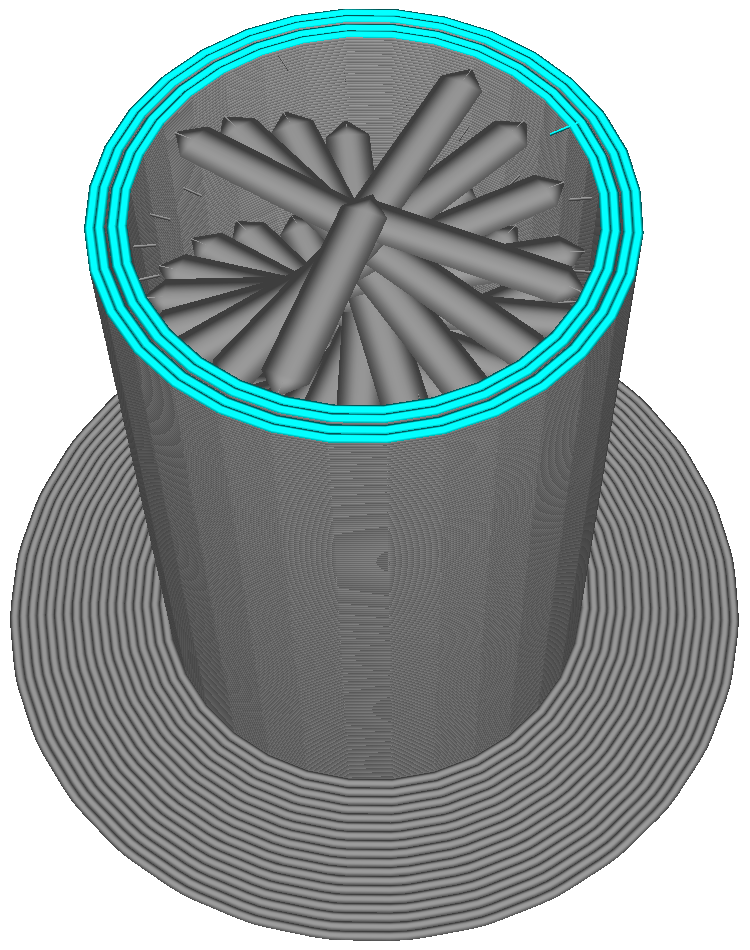
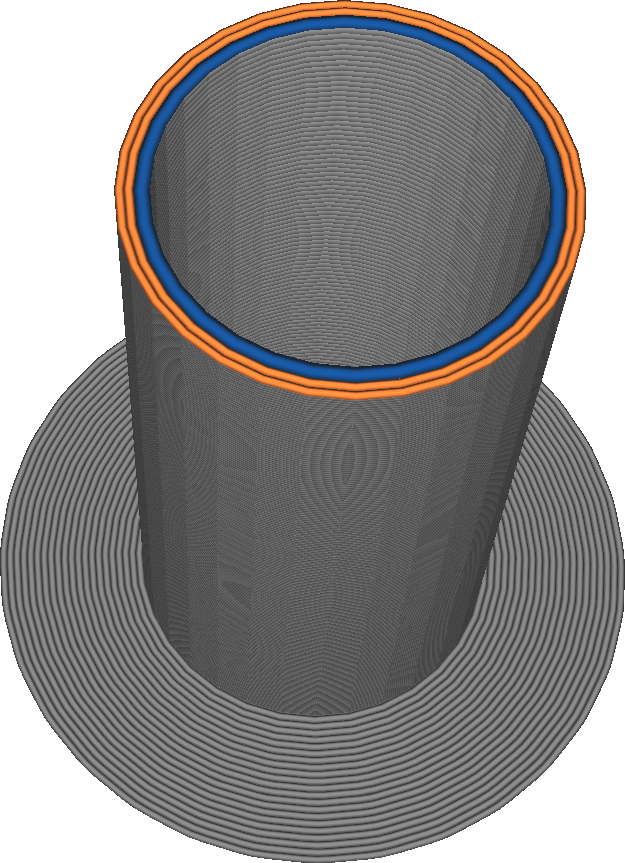
Convert prime_tower_line_width to Markdown, redo image and make corrections
The original image simply showed a prime tower. It wasn't specifically showing the line width, so it was a bit confusing.

diff --git a/resources/descriptions/prime_tower_line_width.md b/resources/descriptions/prime_tower_line_width.md
@@ -1,0 +1,3 @@
+This setting determines the width of the lines with which the prime tower is drawn.
+![The blue material has a larger line width than the orange material](prime_tower_line_width.png)
+Chosing a thicker line width causes the prime tower to sometimes print faster. If the volume extruded by one contour is sufficiently big, increasing the line width makes another loop unnecessary. However increasing the line width too much can make the prime tower weaker because not enough material can be extruded fast enough.
